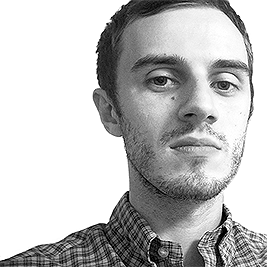
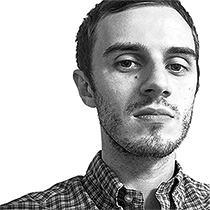
about and contact changes

diff --git a/assets/css/style.css b/assets/css/style.css
@@ -1107,7 +1107,7 @@ body {
 	-webkit-transform: scaleX(1.05) scaleY(0.9);
 	transform: scaleX(1.05) scaleY(0.9);
 	padding: 1em;
-	transition: background-color 500ms ease;
+	transition: background-color 500ms ease, border-color 500ms ease;
 	background-color: #d36344;
 	border-radius: 2em;
 	-webkit-animation: fadeIn 2s ease 3s forwards;
@@ -1127,6 +1127,7 @@ body {
 
 .tile--contact .tile-inner:hover {
 	background-color: transparent;
+	border-color: transparent;
 }
 
 .tile--contact .tile-inner:hover img {
@@ -1543,7 +1544,8 @@ body {
 }
 
 .tile--image .tile-inner {
-	max-width: 80%;
+	max-width: 210px;
+	width: 70%;
 }
 
 .tile--contact {
@@ -1554,6 +1556,7 @@ body {
 .tile--contact .tile-inner {
 	-webkit-transform: scale(1);
 	transform: scale(1);
+	border: 0.125em solid #d9785d;
 }
 
 .tile--projects {
@@ -1912,6 +1915,10 @@ body {
 	font-size: 2.1875rem;
 }
 
+.content__heading--contact {
+	margin-top: 0;
+}
+
 .blogpost__main {
 	-webkit-box-orient: horizontal;
 	-webkit-box-direction: normal;
@@ -2149,10 +2156,15 @@ body {
 
 .tile--interact {
 	background: #555b99;
+	border: 0.125em solid #323656;
+}
+
+.tile--interact .tile-inner {
+	text-shadow: 0.125em 0.125em #3b4066;
 }
 
 .tile--interact .tile-inner .tile-inner__main {
-	border: 0.0625em solid rgba(255, 255, 255, 0.15);
+	border: none;
 }
 
 .tile:nth-child(1),
@@ -2175,6 +2187,10 @@ body {
 	background-color: #4a5080;
 }
 
+.tile--contact .tile-inner {
+	text-shadow: 0.1em 0.1em #cd5331;
+}
+
 .tile--icons {
 	border-left: 0;
 	background-color: #4a5080;
@@ -2187,6 +2203,7 @@ body {
 
 .tile--intro .tile-inner {
 	padding: 0;
+	text-shadow: 0.125em 0.125em #363a5d;
 }
 
 .tile--image {
@@ -2234,11 +2251,16 @@ body {
 	-webkit-box-ordinal-group: 3;
 	-ms-flex-order: 2;
 	order: 2;
-	margin: 7rem 0 0 1rem;
-	-webkit-animation: topIn 2s ease;
-	animation: topIn 2s ease;
+	margin: 0 0 0 1rem;
+	-webkit-animation: fadeIn 2s ease;
+	animation: fadeIn 2s ease;
+	-webkit-animation-fill-mode: forwards;
+	animation-fill-mode: forwards;
+	-webkit-animation-delay: 1s;
+	animation-delay: 1s;
 	-webkit-animation-iteration-count: 1;
 	animation-iteration-count: 1;
+	opacity: 0;
 }
 
 .about__img-wrapper.no-animation {
@@ -2314,10 +2336,6 @@ body {
 	width: 100%;
 }
 
-.content__heading--contact {
-	display: none;
-}
-
 .socialmedia-link {
 	width: 100%;
 }
@@ -2366,6 +2384,11 @@ body {
 	padding-left: 1em;
 	border-left: 0.1em dashed #303453;
 	max-width: 30em;
+}
+
+.socialmedia-link {
+	font-size: 1em;
+	font-weight: 300;
 }
 
 }
@@ -2420,7 +2443,7 @@ body {
 }
 
 .tile--image .tile-inner {
-	width: 267px;
+	width: 210px;
 	height: auto;
 	max-width: none;
 }

diff --git a/assets/css/4-pages/_about.scss b/assets/css/4-pages/_about.scss
@@ -62,9 +62,12 @@
   .about__img-wrapper {
     flex-direction: column;
     order: 2;
-    margin: 7rem 0 0 1rem;
-    animation: topIn 2s ease;
+    margin: 0 0 0 1rem;
+    animation: fadeIn 2s ease;
+    animation-fill-mode: forwards;
+    animation-delay: 1s;
     animation-iteration-count: 1;
+    opacity: 0;
 
     &.no-animation {
       animation: none;

diff --git a/assets/css/3-modules/_content.scss b/assets/css/3-modules/_content.scss
@@ -17,7 +17,7 @@
 .content__heading {
   font-size: 1.875rem;
   font-weight: 700;
-  font-family: $seriffont;  
+  font-family: $seriffont;
 }
 
 .content__heading--smaller {
@@ -155,6 +155,10 @@
   .content__heading--no-mob {
     display: block;
     font-size: 2.1875rem;
+  }
+
+  .content__heading--contact {
+    margin-top: 0;
   }
 
 }

diff --git a/assets/css/4-pages/_contact.scss b/assets/css/4-pages/_contact.scss
@@ -153,14 +153,18 @@
     width: 100%;
   }
 
-  .content__heading--contact {
-    display: none;
-  }
-
   .socialmedia-link {
     width: 100%;
   }
 
+}
+
+@media screen and (min-width: $mqblogindex) {
+
+  .socialmedia-link {
+    font-size: 1em;
+    font-weight: 300;
+  }
 }
 
 @media screen and (min-width: $mqdesktop) {

diff --git a/contact/index.php b/contact/index.php
@@ -20,7 +20,7 @@
 
             <section class="contact">
               <div class="contact__wrapper-form">
-                <h3 class="content__heading">Get in touch</h3>
+                <h3 class="content__heading content__heading--contact">Get in touch</h3>
 
                 <form method="POST" action="../assets/includes/form-to-email.php" class="contactform">
                   <label for="name" class="contactform__label">Name</label>
